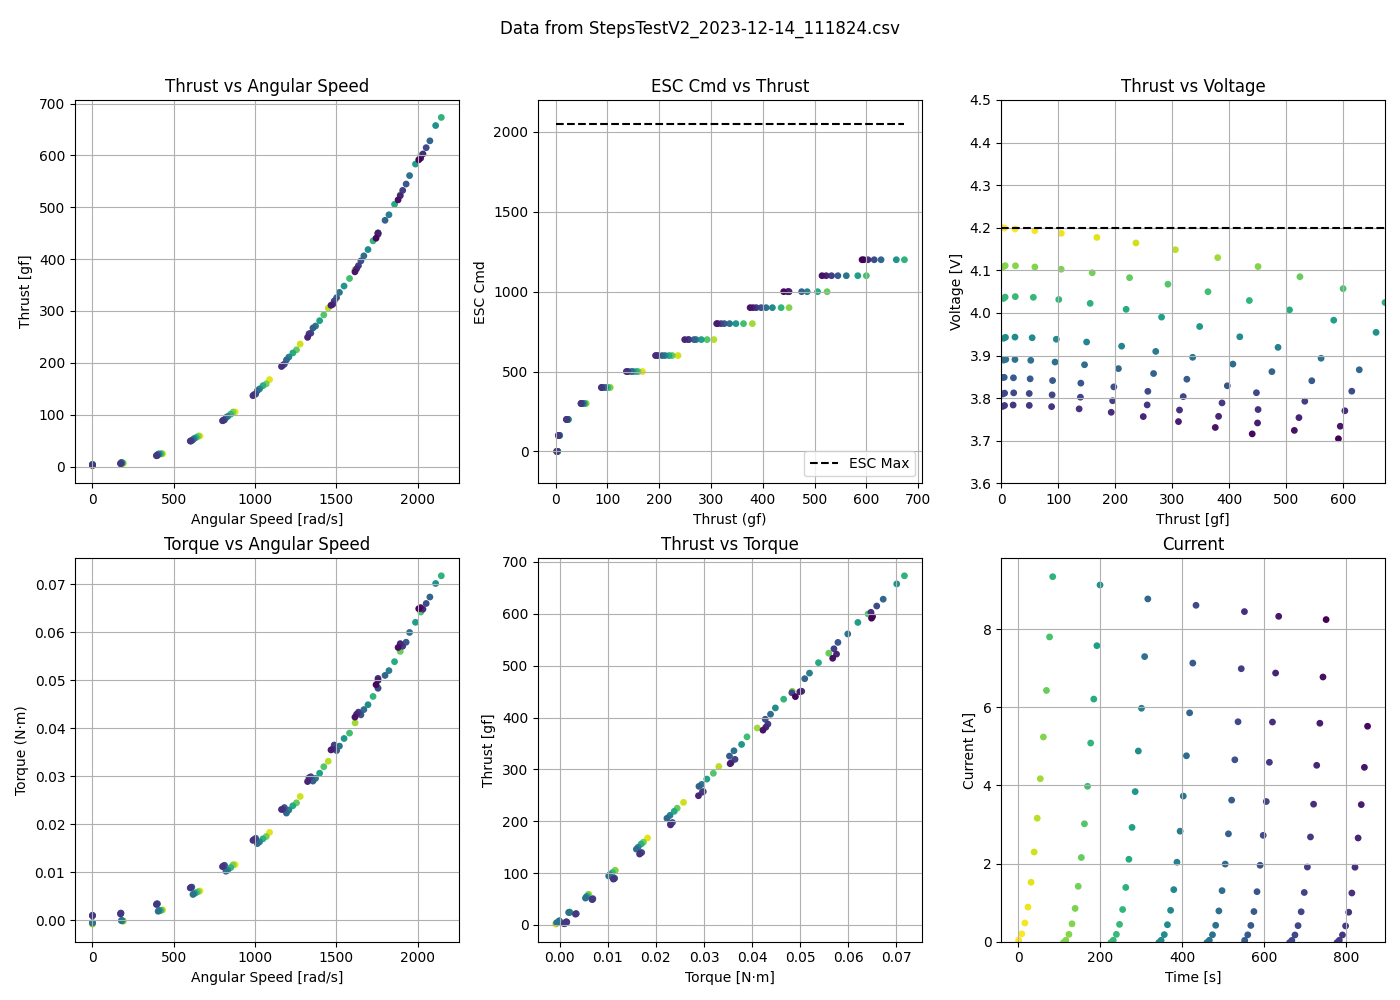
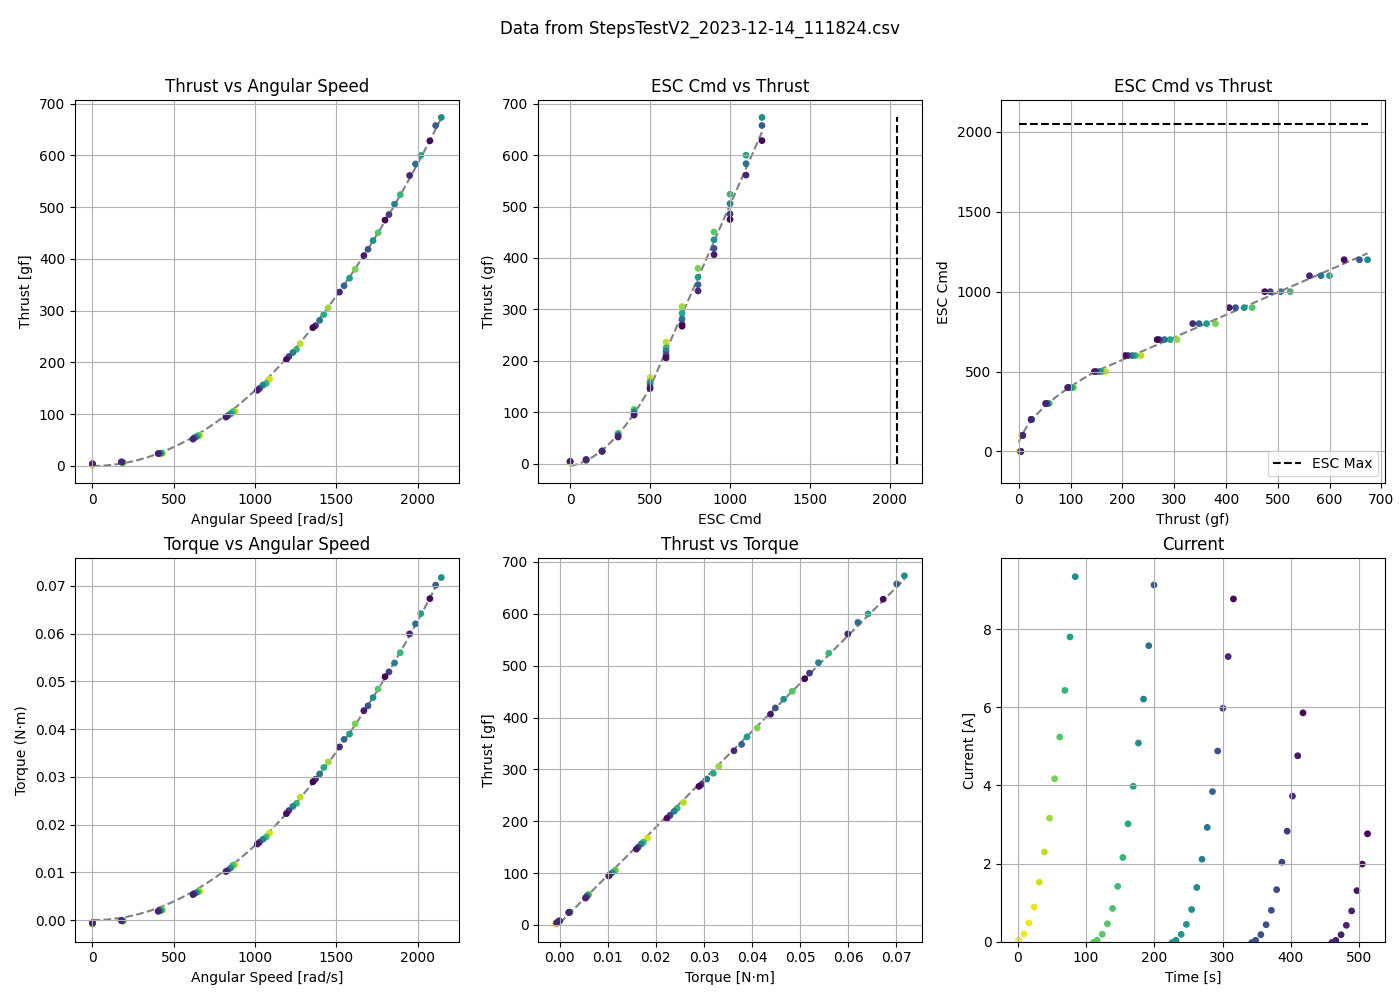
Working forwards and backwards thrust command function

diff --git a/sar_projects/System_Identification/Motor_SO_V5/Step_Value_Identification.py b/sar_projects/System_Identification/Motor_SO_V5/Step_Value_Identification.py
@@ -18,16 +18,60 @@ dataPath = f"{BASE_PATH}/sar_projects/System_Identification/Motor_SO_V5/Logs/"
 fileName = f"StepsTestV2_2023-12-14_111824.csv"
 filePath = os.path.join(dataPath,fileName)
 
+## DEFINE FITTING FUNCTIONS AND SYSTEM CONSTANTS
+def linear_func(x,a,b):
+    return a*x + b
+
+def quadratic_func(x,a):
+    return  a*x**2
+
+def sqrt_func(x,a,b):
+    return  a*x**0.5 + b
+
+def piecewise_func(x, a, b, c, d):
+    """
+    Piecewise function that is quadratic for x < x0 and linear for x >= x0.
+    Parameters:
+    - x0: The breakpoint between quadratic and linear
+    - a, b, c: Parameters for the quadratic part (ax^2 + bx + c)
+    - d: Slope for the linear part (dx)
+    """
+    x0 = 500
+    return np.piecewise(x, [x < x0, x >= x0],
+                        [lambda x: a * x**2 + b * x + c, 
+                         lambda x: d * x + (a * x0**2 + b * x0 + c - d * x0)])
+
+def piecewise_func_inv(x, a, b, c, d):
+    """
+    Piecewise function that is quadratic for x < x0 and linear for x >= x0.
+    Parameters:
+    - x0: The breakpoint between quadratic and linear
+    - a, b, c: Parameters for the quadratic part (ax^2 + bx + c)
+    - d: Slope for the linear part (dx)
+    """
+    x0 = 500
+    y0 = piecewise_func(500, a, b, c, d)
+    return np.piecewise(x, [x < y0, y0 <= x],
+                        [lambda x: (-b + np.sqrt(b**2 - 4*a*(c-x)))/(2*a), 
+                         lambda x: (x - (a * x0**2 + b * x0 + c - d * x0))/d])
+
+def quad_func_inv(x,a,b,c):
+    return  -b - np.sqrt(b**2 - 4*a*(c-x))/2*a
+
+def linear_func_inv(x,a,b):
+    return  (x-b)/a
+
+
 ## LOAD DATA
 df = pd.read_csv(filePath,comment="#")
-# df = df.query("`Voltage (V)` >= 3.85*6")
+df = df.query("`Voltage (V)` >= 3.85*@NUM_BATT_CELLS")
 
 
 ## INITIALIZE PLOTS
 fig = plt.figure(figsize=(14,10),constrained_layout=False)
 ax_thrust = fig.add_subplot(2, 3, 1)
 ax_ESC_signal = fig.add_subplot(2, 3, 2)
-ax_voltage = fig.add_subplot(2, 3, 3)
+ax_Thrust_Cmd = fig.add_subplot(2, 3, 3)
 ax_angular_speed = fig.add_subplot(2, 3, 4)
 ax_torque = fig.add_subplot(2, 3, 5)
 ax_current = fig.add_subplot(2, 3, 6)
@@ -35,59 +79,111 @@ ax_current = fig.add_subplot(2, 3, 6)
 
 ## THRUST PLOT
 thrust_data = df[["Thrust (gf)","Motor Optical Speed (rad/s)","Voltage (V)"]].interpolate()
-ax_thrust.scatter(thrust_data["Motor Optical Speed (rad/s)"].to_numpy(),thrust_data["Thrust (gf)"].to_numpy(),c=thrust_data["Voltage (V)"].to_numpy()/NUM_BATT_CELLS,s=15)
+ax_thrust.scatter(thrust_data["Motor Optical Speed (rad/s)"],thrust_data["Thrust (gf)"],c=thrust_data["Voltage (V)"]/NUM_BATT_CELLS,s=15)
 ax_thrust.set_title("Thrust vs Angular Speed")
 ax_thrust.set_xlabel("Angular Speed [rad/s]")
 ax_thrust.set_ylabel("Thrust [gf]")
 ax_thrust.grid(True)
+
+params, _ = curve_fit(
+        quadratic_func,
+        xdata=thrust_data["Motor Optical Speed (rad/s)"],
+        ydata=thrust_data["Thrust (gf)"],
+        maxfev=5000,
+    )
+
+temp_vals = np.linspace(0,thrust_data["Motor Optical Speed (rad/s)"].max(),100)
+ax_thrust.plot(temp_vals,quadratic_func(temp_vals,*params),color="grey",linestyle="--",label="Quadratic Fit",zorder=0)
+
 # ax_thrust.legend()
 
 ## ESC CMD PLOT
 ESC_data = df[["Thrust (gf)","ESC signal","Voltage (V)"]]
-ax_ESC_signal.scatter(ESC_data["Thrust (gf)"].to_numpy(),ESC_data["ESC signal"].to_numpy(),c=ESC_data["Voltage (V)"].to_numpy()/NUM_BATT_CELLS,s=15)
+ax_ESC_signal.scatter(ESC_data["ESC signal"],ESC_data["Thrust (gf)"],c=ESC_data["Voltage (V)"]/NUM_BATT_CELLS,s=15)
 ax_ESC_signal.set_title("ESC Cmd vs Thrust")
-ax_ESC_signal.set_xlabel("Thrust (gf)")
-ax_ESC_signal.set_ylabel("ESC Cmd")
-ax_ESC_signal.set_ylim(-200,2200)
-ax_ESC_signal.hlines(2047,0,ESC_data["Thrust (gf)"].to_numpy().max(),color="black",linestyles='--',label="ESC Max")
+ax_ESC_signal.set_ylabel("Thrust (gf)")
+ax_ESC_signal.set_xlabel("ESC Cmd")
+ax_ESC_signal.set_xlim(-200,2200)
+ax_ESC_signal.vlines(2047,0,ESC_data["Thrust (gf)"].max(),color="black",linestyles='--',label="ESC Max")
 ax_ESC_signal.grid(True)
-ax_ESC_signal.legend(loc="lower right")
+
+
+df_fit = ESC_data.query("`ESC signal` > 0")
+params, _ = curve_fit(
+        piecewise_func,
+        xdata=df_fit["ESC signal"].to_numpy(),
+        ydata=df_fit["Thrust (gf)"].to_numpy(),
+        maxfev=5000,
+    )
+
+temp_vals = np.linspace(0,ESC_data["ESC signal"].max(),100)
+ax_ESC_signal.plot(temp_vals,piecewise_func(temp_vals,*params),color="grey",linestyle="--",zorder=0)
+# fit_label = f"a*x**(1/2) + b -> params = {np.array2string(params, precision=2)}"
+
+
+## THRUST COMMAND PLOT
+ESC_data = df[["Thrust (gf)","ESC signal","Voltage (V)"]]
+ax_Thrust_Cmd.scatter(ESC_data["Thrust (gf)"],ESC_data["ESC signal"],c=ESC_data["Voltage (V)"]/NUM_BATT_CELLS,s=15)
+ax_Thrust_Cmd.set_title("ESC Cmd vs Thrust")
+ax_Thrust_Cmd.set_xlabel("Thrust (gf)")
+ax_Thrust_Cmd.set_ylabel("ESC Cmd")
+ax_Thrust_Cmd.set_ylim(-200,2200)
+ax_Thrust_Cmd.hlines(2047,0,ESC_data["Thrust (gf)"].max(),color="black",linestyles='--',label="ESC Max")
+ax_Thrust_Cmd.grid(True)
+
+temp_vals = np.linspace(0,ESC_data["Thrust (gf)"].max(),100)
+piecewise_func_inv(500,*params)
+ax_Thrust_Cmd.plot(temp_vals,piecewise_func_inv(temp_vals,*params),color="grey",linestyle="--",zorder=0)
+
+ax_Thrust_Cmd.legend(loc="lower right")
+
+
+
 
 ## TORQUE PLOT  
 torque_data = df[["Thrust (gf)","Torque (N·m)","Voltage (V)"]].interpolate()
-ax_torque.scatter(torque_data["Torque (N·m)"].to_numpy(),torque_data["Thrust (gf)"].to_numpy(),c=torque_data["Voltage (V)"].to_numpy()/NUM_BATT_CELLS,s=15)
+ax_torque.scatter(torque_data["Torque (N·m)"],torque_data["Thrust (gf)"],c=torque_data["Voltage (V)"]/NUM_BATT_CELLS,s=15)
 ax_torque.set_title("Thrust vs Torque")
 ax_torque.set_xlabel("Torque [N·m]")
 ax_torque.set_ylabel("Thrust [gf]")
 ax_torque.grid(True)
+
+params, _ = curve_fit(
+        linear_func,
+        xdata=torque_data["Torque (N·m)"],
+        ydata=torque_data["Thrust (gf)"],
+        maxfev=5000,
+    )
+
+temp_vals = np.linspace(0,torque_data["Torque (N·m)"].max(),100)
+ax_torque.plot(temp_vals,linear_func(temp_vals,*params),color="grey",linestyle="--",label="Linear Fit",zorder=0)
 # ax_torque.legend()
 
 
 ## ANGULAR SPEED PLOT
 angular_speed_data = df[["Torque (N·m)","Motor Optical Speed (rad/s)","Voltage (V)"]].interpolate()
-ax_angular_speed.scatter(angular_speed_data["Motor Optical Speed (rad/s)"].to_numpy(),angular_speed_data["Torque (N·m)"].to_numpy(),c=angular_speed_data["Voltage (V)"].to_numpy()/NUM_BATT_CELLS,s=15)
+ax_angular_speed.scatter(angular_speed_data["Motor Optical Speed (rad/s)"],angular_speed_data["Torque (N·m)"],c=angular_speed_data["Voltage (V)"]/NUM_BATT_CELLS,s=15)
 ax_angular_speed.set_title("Torque vs Angular Speed")
 ax_angular_speed.set_xlabel("Angular Speed [rad/s]")
 ax_angular_speed.set_ylabel("Torque (N·m)")
 ax_angular_speed.grid(True)
 
+params, _ = curve_fit(
+        quadratic_func,
+        xdata=angular_speed_data["Motor Optical Speed (rad/s)"],
+        ydata=angular_speed_data["Torque (N·m)"],
+        maxfev=5000,
+    )
 
-## VOLTAGE PLOT
-voltage_data = df[["Thrust (gf)","Voltage (V)"]].interpolate()
-ax_voltage.scatter(voltage_data["Thrust (gf)"].to_numpy(),voltage_data["Voltage (V)"].to_numpy()/NUM_BATT_CELLS,c=voltage_data["Voltage (V)"].to_numpy()/NUM_BATT_CELLS,s=15)
-ax_voltage.set_title("Thrust vs Voltage")
-ax_voltage.set_ylabel("Voltage [V]")
-ax_voltage.set_xlabel("Thrust [gf]")
-ax_voltage.set_ylim(3.6,4.5)
-ax_voltage.set(xlim=(0, voltage_data["Thrust (gf)"].to_numpy().max()))
-ax_voltage.hlines(4.2,0,5E3,color="black",linestyles='--',label="Voltage Max")
-ax_voltage.hlines(3.3,0,5E3,color="black",linestyles='--',label="Voltage Min")
-ax_voltage.grid(True)
-# ax_voltage.legend()
+temp_vals = np.linspace(0,angular_speed_data["Motor Optical Speed (rad/s)"].max(),100)
+ax_angular_speed.plot(temp_vals,quadratic_func(temp_vals,*params),color="grey",linestyle="--",label="Quadratic Fit",zorder=0)
+
+
+
 
 ## CURRENT PLOT
 current_data = df[["Time (s)","Current (A)","Voltage (V)"]].interpolate()
-ax_current.scatter(current_data["Time (s)"].to_numpy(),current_data["Current (A)"].to_numpy(),c=voltage_data["Voltage (V)"].to_numpy()/NUM_BATT_CELLS,s=15)
+ax_current.scatter(current_data["Time (s)"],current_data["Current (A)"],c=current_data["Voltage (V)"]/NUM_BATT_CELLS,s=15)
 ax_current.set_title("Current")
 ax_current.set_xlabel("Time [s]")
 ax_current.set_ylabel("Current [A]")

diff --git a/sar_projects/System_Identification/Motor_SO_V5/Logs/example.py b/sar_projects/System_Identification/Motor_SO_V5/Logs/example.py
@@ -1,26 +1,34 @@
-import pandas as pd
-import matplotlib.pyplot as plt
 import numpy as np
+import matplotlib.pyplot as plt
 from scipy.optimize import curve_fit
-import os
 
+def piecewise_func(x, x0, a, b, c, d):
+    """
+    Piecewise function that is quadratic for x < x0 and linear for x >= x0.
+    Parameters:
+    - x0: The breakpoint between quadratic and linear
+    - a, b, c: Parameters for the quadratic part (ax^2 + bx + c)
+    - d: Slope for the linear part (dx)
+    """
+    return np.piecewise(x, [x < x0, x >= x0],
+                        [lambda x: a * x**2 + b * x + c, 
+                         lambda x: d * x + (a * x0**2 + b * x0 + c - d * x0)])
 
-import sys,rospkg
-BASE_PATH = os.path.dirname(rospkg.RosPack().get_path('sar_projects'))
+# Sample data
+x_data = np.linspace(0, 10, 100)
+y_data = piecewise_func(x_data, 5, 1, -2, 3, 0.5) + np.random.normal(0, 1, x_data.size) # Adding some noise
 
+# Curve fitting
+params, _ = curve_fit(piecewise_func, x_data, y_data)
 
-RPM_TO_RAD_PER_SEC = 2*np.pi/60
-NUM_BATT_CELLS = 6
+# Plotting
+plt.figure(figsize=(8, 5))
+plt.scatter(x_data, y_data, label='Data')
+plt.plot(x_data, piecewise_func(x_data, *params), label='Fit', color='red')
+plt.xlabel('x')
+plt.ylabel('y')
+plt.title('Piecewise Function Fit')
+plt.legend()
+plt.show()
 
-
-## DATAPATHS
-dataPath = f"{BASE_PATH}/sar_projects/System_Identification/Motor_SO_V5/Logs/"
-fileName = f"StepsTestV2_2023-12-14_112823.csv"
-filePath = os.path.join(dataPath,fileName)
-
-## LOAD DATA
-df = pd.read_csv(filePath,comment="#")
-
-df["Time (s)"] = df["Time (s)"] + 551
-
-df.to_csv("StepsTestV2_2023-12-14_112823_Copy.csv",index=False)
+print(f"Fit Parameters: {params}")

diff --git a/sar_projects/System_Identification/Motor_SO_V5/Time_Constant_Identification.py b/sar_projects/System_Identification/Motor_SO_V5/Time_Constant_Identification.py
@@ -63,6 +63,7 @@ norm_angular_speed_data = df[["Time (s)","Motor Optical Speed (rad/s)"]].interpo
 norm_angular_speed_data["Motor Optical Speed (rad/s)"] = norm_angular_speed_data["Motor Optical Speed (rad/s)"]/4000
 
 ax_norm_angular_speed.plot(norm_angular_speed_data["Time (s)"].to_numpy(),norm_angular_speed_data["Motor Optical Speed (rad/s)"].to_numpy(),alpha=0.5)
+ax_norm_angular_speed.scatter(norm_angular_speed_data["Time (s)"].to_numpy(),norm_angular_speed_data["Motor Optical Speed (rad/s)"].to_numpy(),alpha=0.5,s=5)
 ax_norm_angular_speed.set_title("Normalized Angular Speed")
 ax_norm_angular_speed.set_xlabel("Time [s]")
 ax_norm_angular_speed.set_ylabel("Norm Angular Speed [rad/s]")
@@ -144,7 +145,7 @@ for key, (exp_func, t_range) in curve_fits.items():
     fitted_curve = exp_func(t_fit,*params)
     ax_norm_angular_speed.plot(t_fit,fitted_curve,'--',color='r',alpha=0.9,label="Curve Fit")
 
-    print(f"{key}-> Type: {exp_func.__name__} \t Time-Constant: {params[1]:.3f}")
+    print(f"{key}-> Type: {exp_func.__name__} \t Time-Constant: {params[1]:.3f} \t Params: {params}")
 
 test_range = np.linspace(23,23.5,1000)
 test_curve = exp_decay(test_range,23.25,0.031,5.3*400)
